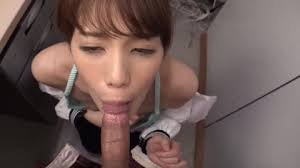
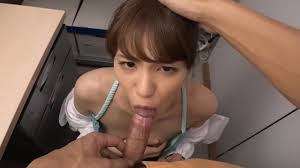
person pic

diff --git a/code/html/TjpPerson.html b/code/html/TjpPerson.html
@@ -1,0 +1,37 @@
+<style>
+    body {
+        background-color: #131412;
+    }
+</style>
+<script src="https://resource.liuyao.link/js/my/util.js"></script>
+<script>
+(async function() {
+    // 吉岡蓮美 真白爱梨 端希レイナ 江波りゅう 立花瑠莉 MisakiYoshimura(吉村美咲) KoiMiyamura,宮村恋
+
+    let person = await fetchTextFile('../video/japon_person');
+    let json1 = await fetchTextFile('../video/japan/01_japan.json');
+    let json2 = await fetchTextFile('../video/japan/02_japan_infantry.json');
+    let json1Obj = JSON.parse(json1);
+    let json2Obj = JSON.parse(json2);
+    json1 = '';
+    for(var k in json1Obj) json1 += k + '\n';
+    json2 = '';
+    for(var k in json2Obj) json2 += k + '\n';
+
+    person = person.split('\n');
+    let p, idx;
+    for (let i = 0; i < person.length; i++) {
+        if (!person[i]) continue;
+        p = person[i].split(' ')[0];
+        if ((idx = json1.indexOf(p)) >= 0) {
+            console.log(`${person[i]}: ${json1.substr(idx-1, p.length+2).trim()}`);
+            person[i] = '';
+        }
+        if ((idx = json2.indexOf(p)) >= 0) {
+            console.log(`${person[i]}: ${json2.substr(idx-1, p.length+3).trim()}`);
+            person[i] = '';
+        }
+    }
+    console.log(person.join('\n'));
+})()
+</script>
